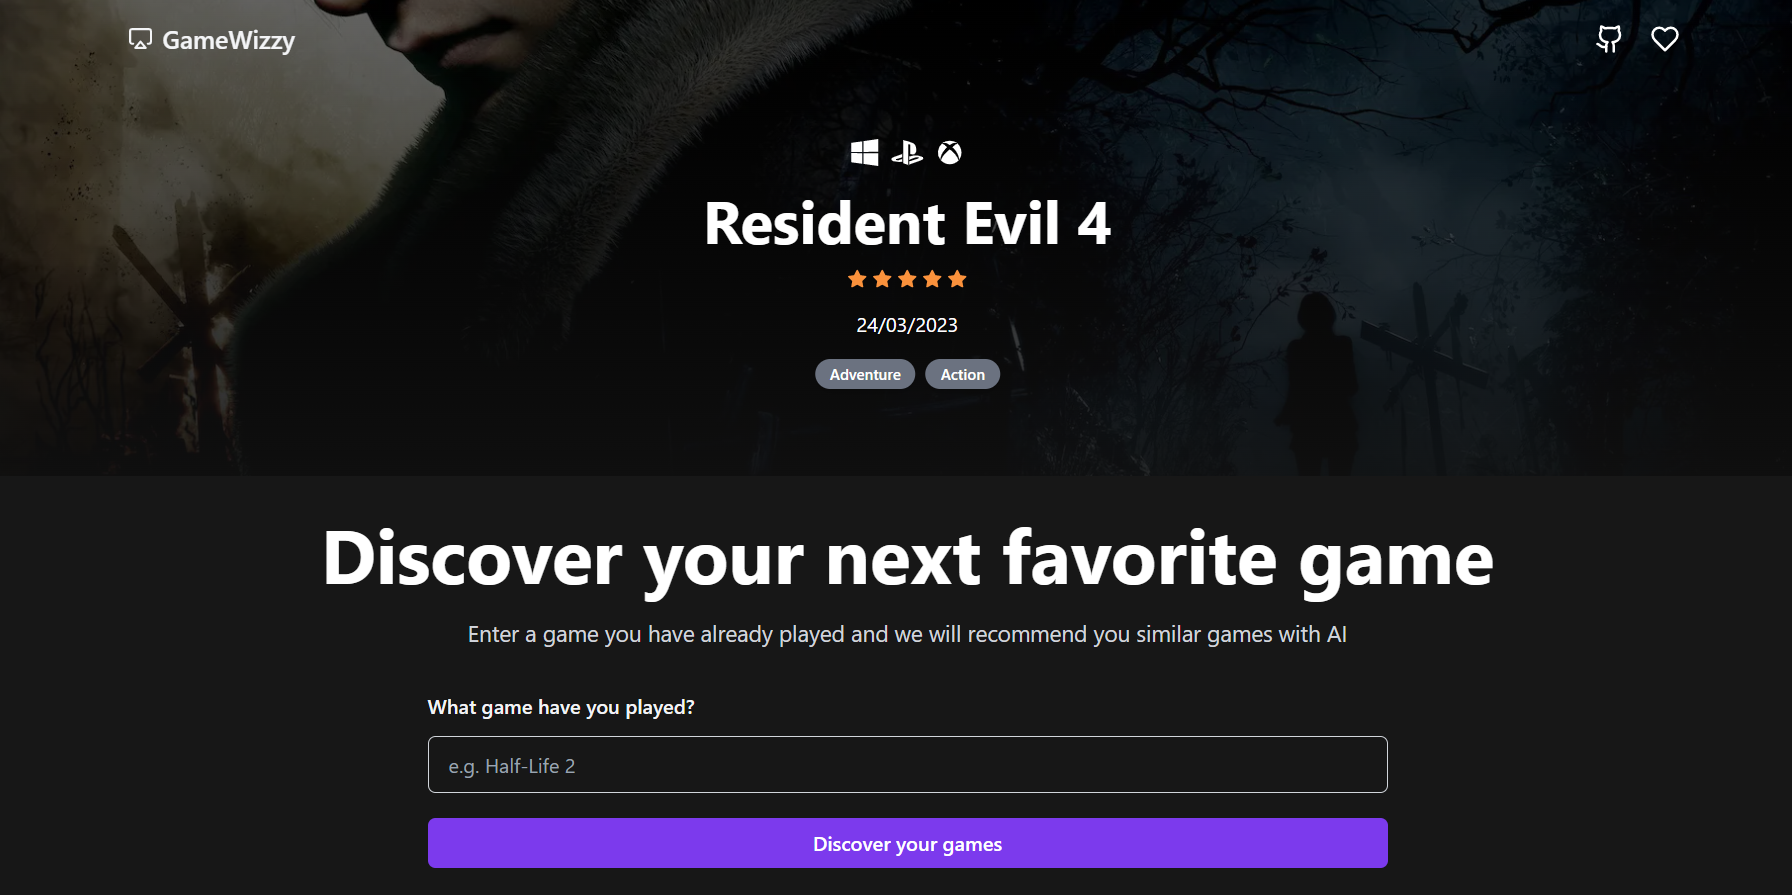
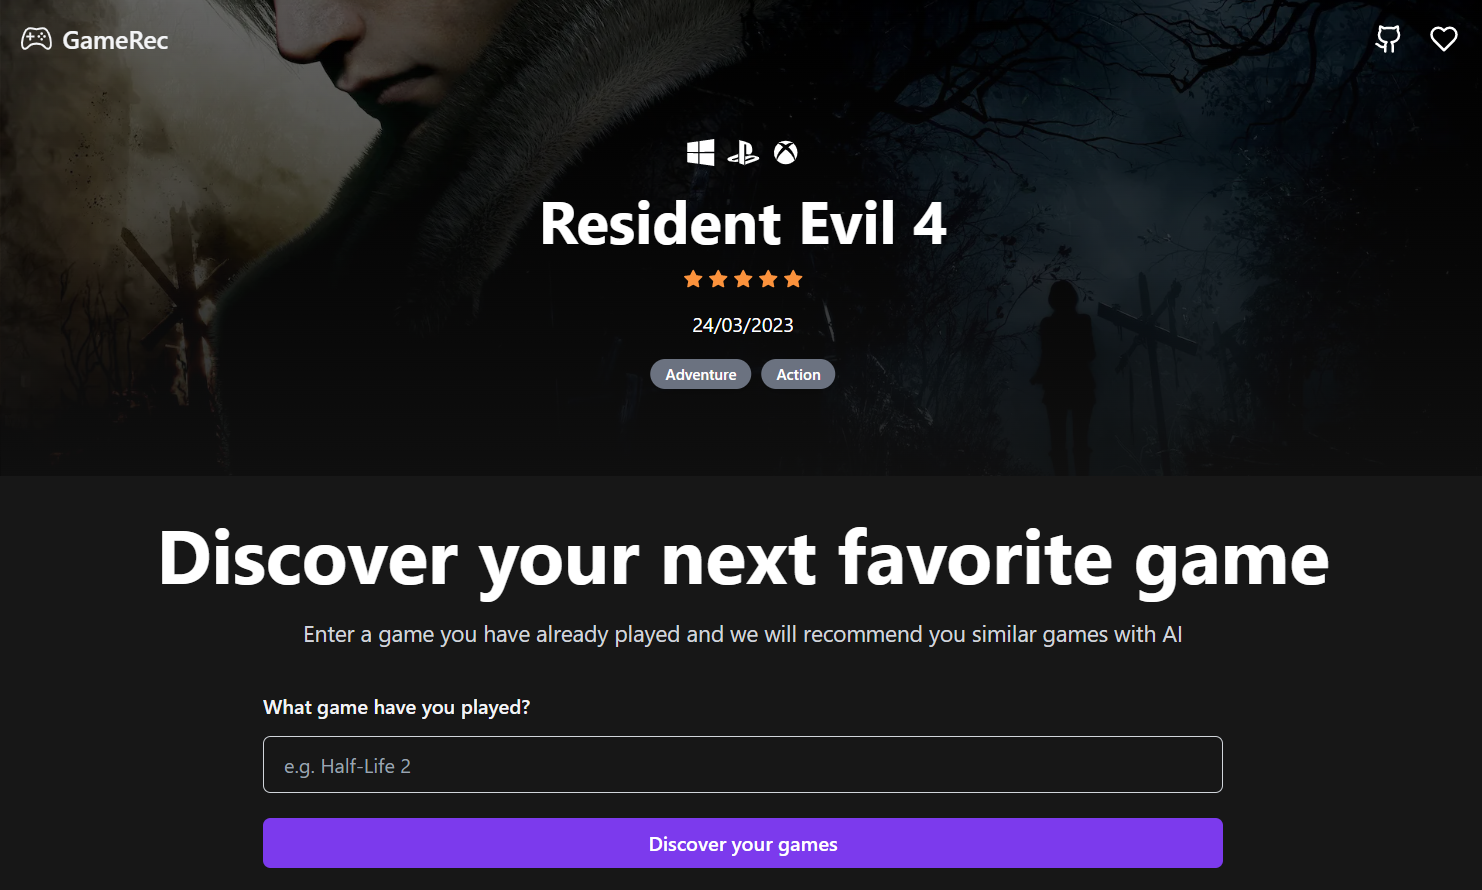
replace screenshot

diff --git a/src/components/Modal.tsx b/src/components/Modal.tsx
@@ -221,7 +221,7 @@ const Modal = ({
                         isLiked ? "add to favorites" : "remove from favorites"
                       }
                       isLiked={isLiked}
-                      likeCount={updateGameMutation.data?.favoriteCount ?? 0}
+                      likeCount={updateGameMutation.data?.favoriteCount}
                       onClick={() => {
                         setIsLiked(!isLiked);
                         updateGameMutation.mutate({

diff --git a/README.md b/README.md
@@ -1,8 +1,8 @@
-# [GameWizzy](https://gamewizzy.vercel.app/)
+# [GameRec](https://gamerec.vercel.app/)
 
 This project recommends games with OpenAI. By clicking on the recommended games, you can see the details of the game fetched from RAWG and IGDB APIs. It is bootstrapped with the [T3 Stack](https://create.t3.gg/).
 
-[![GameWizzy](./public/screenshot.png)](https://gamewizzy.vercel.app/)
+[![GameRec](./public/screenshot.png)](https://gamerec.vercel.app/)
 
 ## Tech Stack
 
@@ -26,7 +26,7 @@ This project recommends games with OpenAI. By clicking on the recommended games,
 ### 1. Clone the repository
 
 ```bash
-git clone https://github.com/sadmann7/game-wizzy.git
+git clone https://github.com/sadmann7/game-rec.git
 ```
 
 ### 2. Install dependencies
